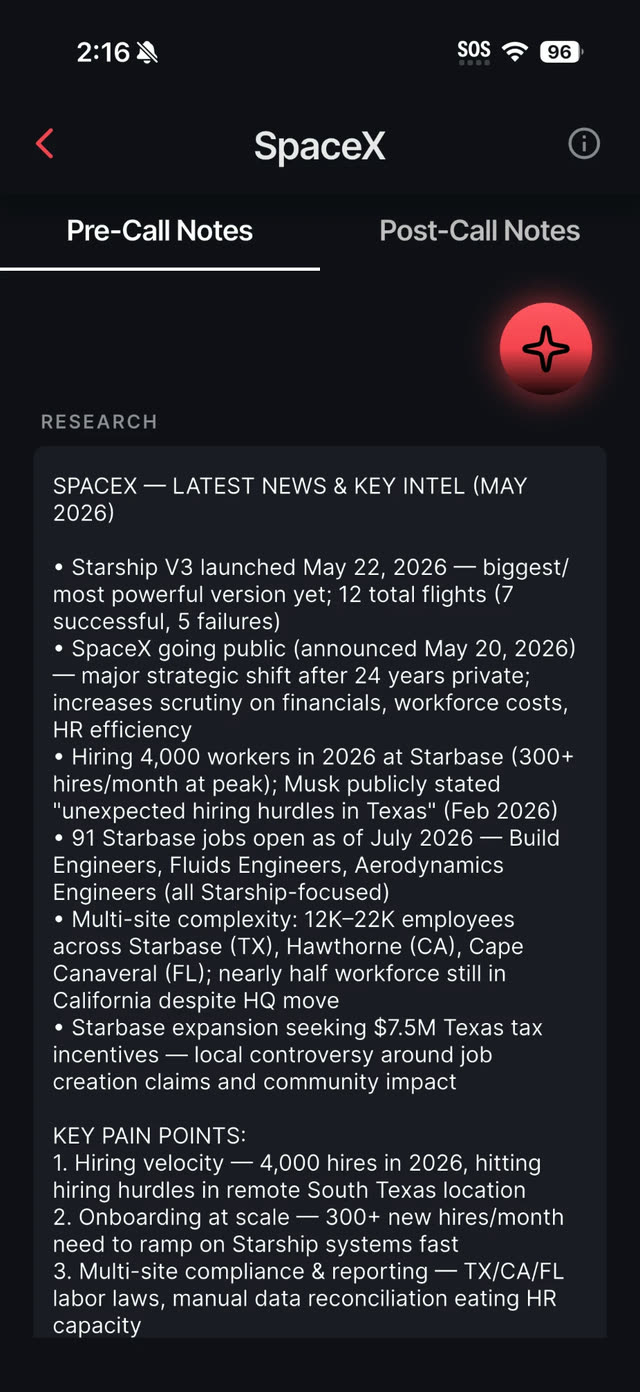
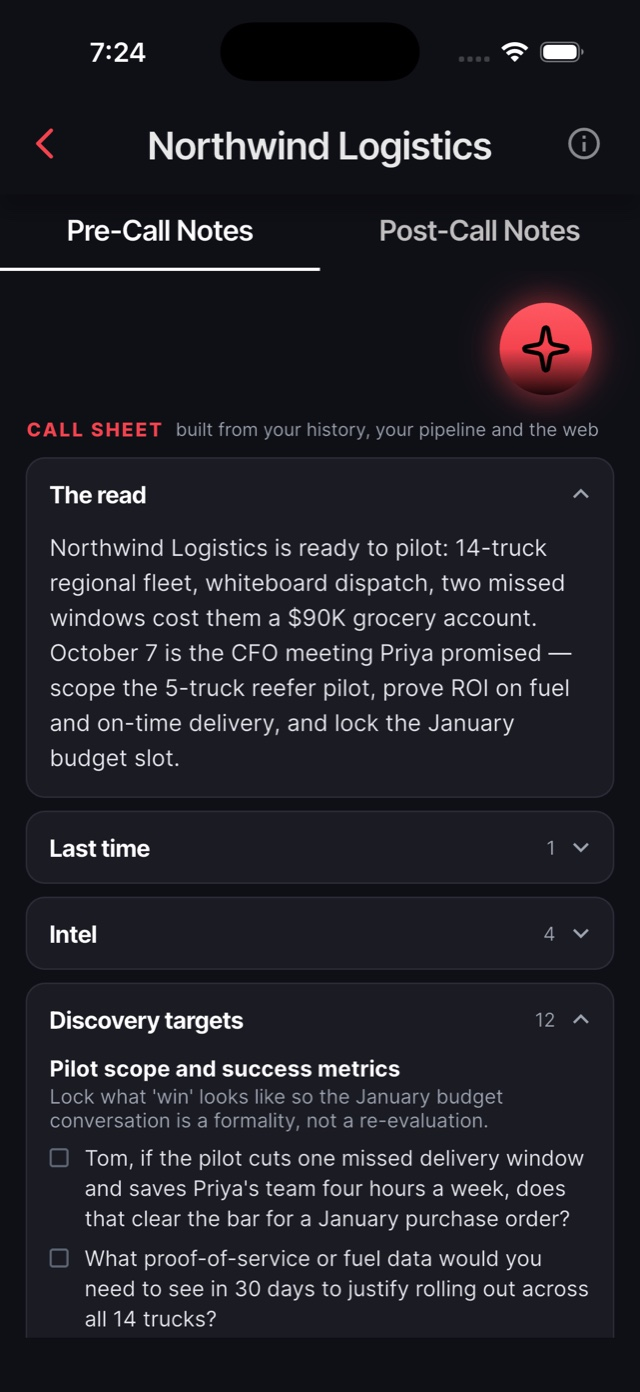
Site: Daily Habits + Call Sheet cards with 1.2.0 shots, Account Targeting card (web shot)

diff --git a/index.html b/index.html
@@ -39,7 +39,7 @@
         !function(e,t,n,s,u,a){e.twq||(s=e.twq=function(){s.exe?s.exe.apply(s,arguments):s.queue.push(arguments);},s.version='1.1',s.queue=[],u=t.createElement(n),u.async=!0,u.src='https://static.ads-twitter.com/uwt.js',a=t.getElementsByTagName(n)[0],a.parentNode.insertBefore(u,a))}(window,document,'script');
         twq('config','rdz1n');
     </script>
-    <meta name="description" content="The AI app for individual B2B sales reps. Meeting prep, pipeline and commission, daily goals, career — built for the rep, not the company. AI-powered meeting prep, daily agenda tracking, and career management.">
+    <meta name="description" content="The AI app for individual B2B sales reps. Call-sheet meeting prep, account targeting, pipeline and commission, daily habits, career — built for the rep, not the company. AI-powered meeting prep, daily agenda tracking, and career management.">
     <link rel="icon" type="image/svg+xml" href="/assets/favicon.svg">
     <link rel="icon" type="image/png" sizes="32x32" href="/assets/favicon-32.png">
     <link rel="apple-touch-icon" href="/assets/apple-touch-icon.png">
@@ -115,6 +115,9 @@
         .features h2 { color: #fff; text-align: center; font-size: 1.6rem; margin-bottom: 40px; }
         .feature-grid { display: grid; grid-template-columns: 1fr 1fr; gap: 16px; }
         .feature-card:last-child:nth-child(odd) { grid-column: 1 / -1; }
+        .feature-card.wide { grid-column: 1 / -1; }
+        .pro-tag { display: inline-block; vertical-align: middle; margin-left: 8px; padding: 2px 8px; border-radius: 6px;
+            background: rgba(244,67,78,0.18); color: #f4434e; font-size: 0.68rem; font-weight: 800; letter-spacing: 0.08em; text-transform: uppercase; }
         /* Wide web-app capture inside a feature card — same treatment as the
            showcase image below, not the phone-shot glow stage. */
         .feature-card .wide-shot { width: 100%; height: auto; display: block; border-radius: 8px;
@@ -237,15 +240,15 @@
         <div class="feature-grid">
             <div class="feature-card">
                 <div class="shot-stage"><img class="feature-shot" src="/assets/features/agenda.jpg"
-                     alt="Daily Agenda & Progress in RepKit" loading="lazy"></div>
-                <h3>Daily Agenda & Progress</h3>
-                <p><strong>Build the habits that hit quota.</strong> Daily goals and to-dos, tracked over time.</p>
+                     alt="Daily Habits in RepKit: three habits tracked on one calendar" loading="lazy"></div>
+                <h3>Daily Habits</h3>
+                <p><strong>Three habits a day, tracked on one calendar.</strong> Tap when it's done. See the month at a glance, with your to-dos underneath.</p>
             </div>
             <div class="feature-card">
                 <div class="shot-stage"><img class="feature-shot" src="/assets/features/prep.jpg"
-                     alt="AI Meeting Prep in RepKit" loading="lazy"></div>
-                <h3>AI Meeting Prep</h3>
-                <p><strong>Never show up cold again.</strong> Account research and discovery questions, ready before the meeting — personalized to how you sell.</p>
+                     alt="A RepKit call sheet: the read, last time, discovery targets, watch-outs" loading="lazy"></div>
+                <h3>The Call Sheet</h3>
+                <p><strong>Never show up cold again.</strong> One tap builds a one-page call sheet from your notes, your pipeline and the web: what happened last time, what to ask, what to watch out for.</p>
             </div>
             <div class="feature-card">
                 <div class="shot-stage"><img class="feature-shot" src="/assets/features/memory.jpg"
@@ -271,7 +274,14 @@
                 <h3>Career Hub</h3>
                 <p><strong>Your career, not your company's.</strong> Job pipeline, work history, and career earnings — yours to keep.</p>
             </div>
-            <div class="feature-card">
+            <div class="feature-card wide">
+                <img class="wide-shot" src="/assets/features/targeting-web.jpg"
+                     alt="Account Targeting in the RepKit web app: watched accounts and industries with weekly AI briefs"
+                     loading="lazy" width="1600" height="815">
+                <h3>Account Targeting <span class="pro-tag">Pro</span></h3>
+                <p><strong>Your accounts, watched for you.</strong> Name the companies and industries you care about. Every week RepKit reads the web and tells you what changed, why it matters, and how to use it.</p>
+            </div>
+            <div class="feature-card wide">
                 <img class="wide-shot" src="/assets/features/pipeline-web.jpg"
                      alt="Pipeline and commission tracking in the RepKit web app"
                      loading="lazy" width="1600" height="831">
@@ -284,7 +294,7 @@
     <div class="showcase">
         <div class="showcase-card">
             <img src="/assets/features/dashboard.jpg"
-                 alt="RepKit web dashboard: quota forecast, daily agenda, and recent meetings"
+                 alt="RepKit web dashboard: quota forecast, daily habits, and recent meetings"
                  loading="lazy" width="1600" height="822">
             <h3>Dashboard</h3>
             <p>Your command center &mdash; on the web, synced with the app.</p>
